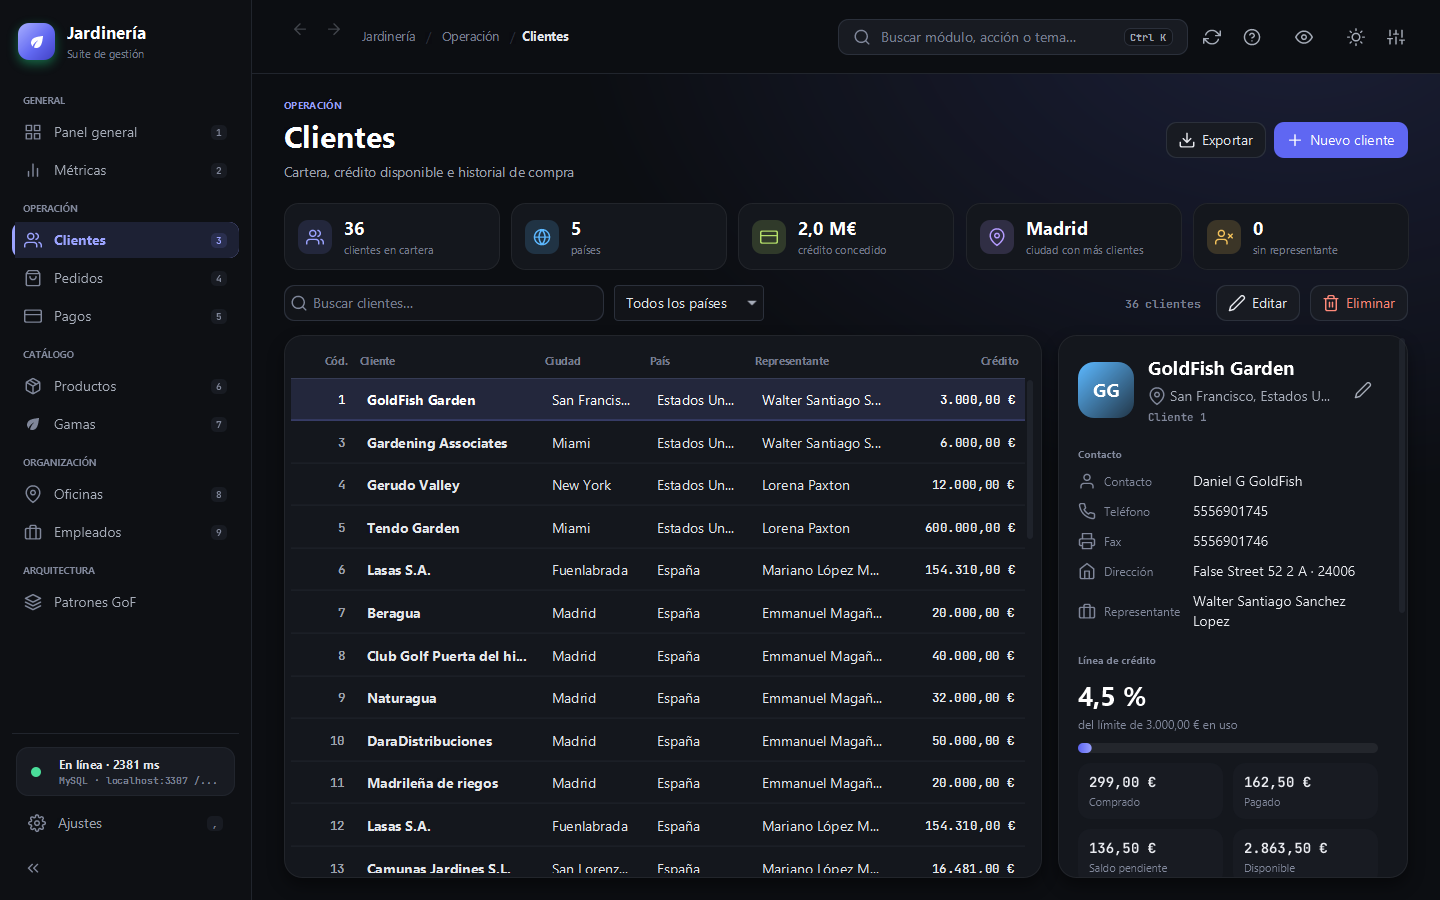
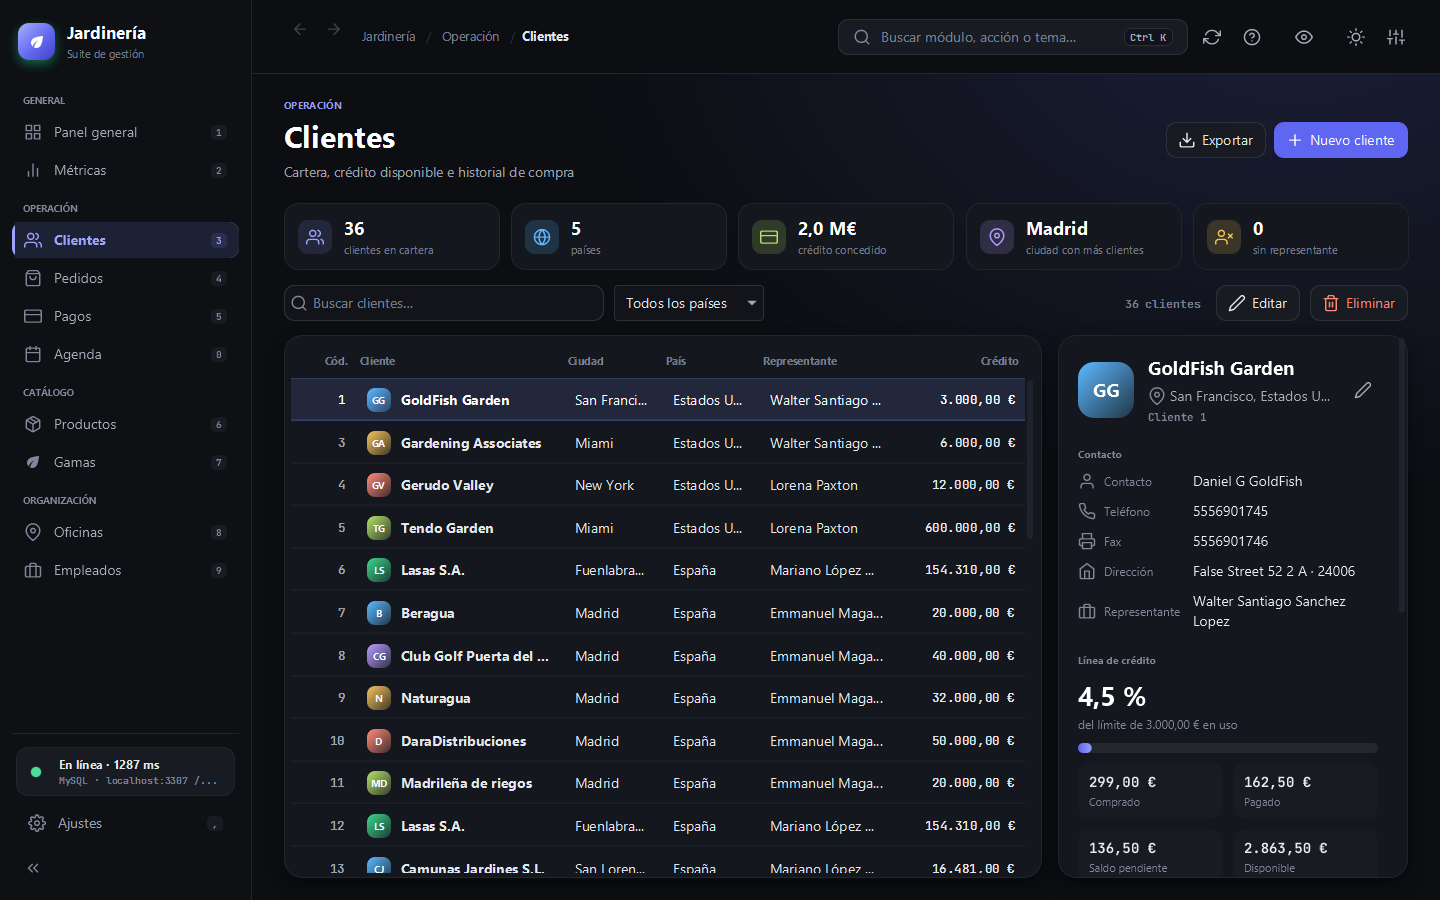
📝 docs: Agenda, organigrama de empleados y avatares
- README:
  - galería con la Agenda y el organigrama;
  - filas de Agenda y Empleados en la tabla de módulos;
  - atajo Ctrl+0;
  - paquete views/agenda;
  - pruebas OrgChartTest, AgendaModelTest y AvatarTest.
- CAPTURAS: Agenda (oscuro), pedidos retrasados (claro) y ficha de empleado.
  Se regenera clientes-detalle.png con los avatares de la tabla.
- ARQUITECTURA: paquete agenda en el árbol de la GUI.
- AGENTS:
  - reglas de Avatar y personColumn;
  - la fecha de referencia de AgendaModel.

Claude-Session: https://claude.ai/code/session_01Mb6BVtjirwo5Ure4fDwMmK

diff --git a/README.md b/README.md
@@ -11,6 +11,8 @@ Aplicación de escritorio en **Java 21 + JavaFX** para gestionar la base de dato
 | Métricas | Ficha de cliente |
 |---|---|
 | ![Métricas](docs/img/analytics-dark.png) | ![Ficha de cliente](docs/img/clientes-detalle.png) |
+| **Agenda** | **Organigrama en la ficha de empleado** |
+| ![Agenda](docs/img/agenda-dark.png) | ![Organigrama](docs/img/empleados-organigrama.png) |
 | **Alta de pedido** | **Pedidos (tema claro)** |
 | ![Formulario](docs/img/pedidos-formulario.png) | ![Pedidos en tema claro](docs/img/pedidos-light.png) |
 
@@ -69,8 +71,10 @@ docker exec -i jardineria-mysql mysql -uroot -ppassword --default-character-set=
 |---|---|
 | **Panel general** | Saludo con hora de actualización, 5 indicadores con variación trimestral honesta y sparklines interactivas, ventas frente a cobros (cursor y teclado), estado logístico, pedidos por mes, treemap de ventas por gama, mapa de calor de actividad con totales anuales, **lecturas clave** calculadas automáticamente, clientes más activos, stock crítico y actividad reciente. **Navegación contextual**: un clic en un estado, cliente, producto o pedido abre su módulo ya filtrado y con el elemento seleccionado. Ver [docs/DASHBOARD.md](docs/DASHBOARD.md). |
 | **Métricas** | Filtro por año, ventas frente a cobros (gráfico de áreas con cursor), pedidos por mes y estado, ticket medio, tasa de rechazo, distribución por gama, país y forma de pago, ranking de clientes y exportación CSV. Las gamas, los países y los clientes llevan a su módulo filtrado. |
-| **Clientes** | Búsqueda sin tildes, filtro por país y ficha lateral con contacto, representante, crédito usado frente al límite y últimos pedidos y pagos. |
+| **Clientes** | Avatar con iniciales en cada fila, búsqueda sin tildes, filtro por país y ficha lateral con contacto, representante, crédito usado frente al límite y últimos pedidos y pagos. |
 | **Pedidos** | Filtro por estado, cronología con aviso de retraso, cambio rápido de estado y gestión de líneas (el alta descuenta stock). |
+| **Agenda** | Calendario mensual de entregas previstas, entregas realizadas y cobros; cifras del mes (puntualidad e importe cobrado), detalle del día y pedidos retrasados. Se maneja con las flechas y cada pedido o cobro abre su módulo filtrado. Sin tablas nuevas. |
+| **Empleados** | Avatar en cada fila y ficha lateral como **organigrama navegable**: cadena de mando hasta dirección, equipo directo, personas a cargo y clientes asignados. |
 | **Pagos, Productos, Gamas, Oficinas, Empleados** | CRUD con validación inline (claves repetidas, importes y stock no negativos, fechas coherentes, cantidad de una línea ≤ stock disponible), filtros propios (forma de pago, gama, oficina, stock crítico) y resumen superior. |
 | **Ajustes** | Perfiles de apariencia al estilo de la terminal de Ubuntu: 6 temas (4 oscuros, 2 claros), 7 acentos, tamaño de texto, densidad, esquinas, movimiento reducido, vista de inicio; exportar e importar perfiles. Ver [docs/APARIENCIA.md](docs/APARIENCIA.md). |
 
@@ -82,7 +86,7 @@ Todas las tablas permiten ordenar, buscar, copiar filas, exportar a CSV (UTF-8 c
 
 | Atajo | Acción |
 |---|---|
-| `Ctrl+1` … `Ctrl+9` | Ir al módulo correspondiente |
+| `Ctrl+1` … `Ctrl+9`, `Ctrl+0` | Ir al módulo correspondiente (`Ctrl+0`: Agenda) |
 | `Ctrl+K` | Paleta de comandos (navegar y acciones) |
 | `Ctrl+N` / `Enter` / `Supr` | Nuevo / editar / eliminar el registro seleccionado |
 | `Ctrl+F` | Enfocar el buscador del módulo |
@@ -148,7 +152,7 @@ src/main/java/com/jardineria
     └── adapter/in/
         ├── common/    Formatters (compartido por GUI y CLI)
         ├── cli/
-        └── desktop/   shell · navigation · theme · support · components(/form) · views/{dashboard,analytics,crud,modules,settings}
+        └── desktop/   shell · navigation · theme · support · components(/form) · views/{dashboard,analytics,agenda,crud,modules,settings}
 ```
 
 ### Patrones de diseño
@@ -184,6 +188,8 @@ En la GUI también se aplican **Template Method** (`BaseView`, `CrudModuleView`)
 | `HexagonalArchitectureTest` | Fronteras entre capas (ArchUnit) |
 | `DesktopSmokeTest` | La GUI completa sin base de datos: todas las rutas en ambos temas y los 7 formularios, sin errores |
 | `NavigationRevealTest` | Navegación contextual: abrir Pedidos filtrado por código o por estado y con la fila correcta seleccionada |
+| `OrgChartTest` | Ficha de empleado: cadena de mando, equipo directo y navegación entre personas con el teclado |
+| `AgendaModelTest`, `AvatarTest` | Agenda (fecha de referencia, agrupación por día, retrasos, puntualidad) e iniciales y tonos de los avatares |
 | `FormattersTest`, `SeriesTest`, `CsvExportTest` | Formato es-ES, series temporales y CSV RFC 4180 |
 | `AppearanceProfileTest` | Perfiles de apariencia: límites, serialización tolerante y predefinidos |
 | `DashboardInsightsTest`, `TreemapTest`, `ActivityHeatmapTest` | Lecturas clave, algoritmo squarified y niveles del mapa de calor |

diff --git a/AGENTS.md b/AGENTS.md
@@ -30,6 +30,8 @@ Contexto operativo para cualquier agente (Claude, Cursor, Copilot…) que modifi
 - **Módulos CRUD**: heredan de `CrudModuleView<T>` e implementan `fetch`, `configureColumns`, `searchableText`, `openEditor`, `deleteItem`, `describe`, `csvHeader` y `csvRow`. Los formularios se construyen con `FormDialog` (validación inline y guardado en segundo plano).
 - **Registro**: cada ruta de `navigation.Route` se registra en `views.DesktopViews.registerAll`. Una ruta nueva necesita entrada en el enum, vista y registro.
 - **Navegación contextual**: para abrir un módulo con un elemento concreto usa `Navigator.navigate(ruta, consulta)`; la vista lo recibe en `View.reveal`. Los elementos clicables que no son botones se preparan con `Interactions.activatable` (foco, rol de botón, clic, `Enter` y `Espacio`).
+- **Personas**: el avatar con iniciales es `components.Avatar` (tono estable por código). En tablas usa `CrudModuleView.personColumn`; no dupliques la lógica de iniciales.
+- **Agenda**: los eventos salen de pedidos y pagos en `AgendaModel` (lógica pura, con pruebas). La fecha de referencia es el último pedido o cobro si es anterior a hoy; no la calcules con fechas de entrega.
 - **Validación**: las reglas de formulario van con `FormField.rule`; para claves de altas usa `CrudModuleView.uniqueKey`. La capa de aplicación vuelve a validar al guardar.
 - **Estilos**: solo CSS. `ThemeManager` aplica, por este orden, Primer (AtlantaFX), `css/themes/<tema>.css` (superficies y texto), `css/accents.css` (acento por modo, `.theme-dark.accent-*` / `.theme-light.accent-*`) y `css/app.css` (componentes), más clases en la raíz (`theme-*`, `accent-*`, `density-*`, `corners-*`, `ambient-off`). Los colores salen de variables (`-color-*`, `-jd-*`, `.tone-*`), nunca de valores fijos en Java, salvo los datos que traen su propio color (los hex del flyweight). Un tema nuevo necesita entrada en `ThemePreset` y su CSS; un acento nuevo, entrada en `Accent` y sus dos bloques en `accents.css`. Detalle en `docs/APARIENCIA.md`.
 - **Apariencia**: la configura el usuario en Ajustes mediante `AppearanceProfile` (record inmutable, se modifica con `ThemeManager.update(p -> p.withX(...))`) y se persiste con `ProfileStore` (`preferences()` en la app, `inMemory()` en pruebas). No guardes preferencias visuales por otra vía.

diff --git a/docs/ARQUITECTURA.md b/docs/ARQUITECTURA.md
@@ -216,5 +216,5 @@ src/main/java/com/jardineria
             ├── theme/       ThemeManager · ThemePreset · Accent · AppearanceProfile · ProfileStore
             ├── support/     Motion · Icons · Interactions · Keys · Series · CsvExport · FxTasks · ModalHost · Notifier
             ├── components/  KpiCard · AreaTrendChart · ActivityHeatmap · Treemap · DonutChart · Sparkline · ResponsiveGrid · form/ …
-            └── views/       dashboard · analytics · crud · modules · settings
+            └── views/       dashboard · analytics · agenda · crud · modules · settings
 ```

diff --git a/docs/CAPTURAS.md b/docs/CAPTURAS.md
@@ -44,5 +44,9 @@ Si MySQL no está disponible, ambas clases se omiten (`assumeTrue`) en lugar de 
 | ![](img/analytics-dark.png) | ![](img/pedidos-light.png) |
 | **Ficha de cliente** | **Formulario de pedido** |
 | ![](img/clientes-detalle.png) | ![](img/pedidos-formulario.png) |
+| **Agenda** | **Pedidos retrasados (claro)** |
+| ![](img/agenda-dark.png) | ![](img/agenda-retrasos-light.png) |
+| **Organigrama (ficha de empleado)** | |
+| ![](img/empleados-organigrama.png) | |
 | **Ventana mínima (1100×720)** | **Ajustes (parte inferior)** |
 | ![](img/ventana-minima.png) | ![](img/ajustes-dark-bottom.png) |
